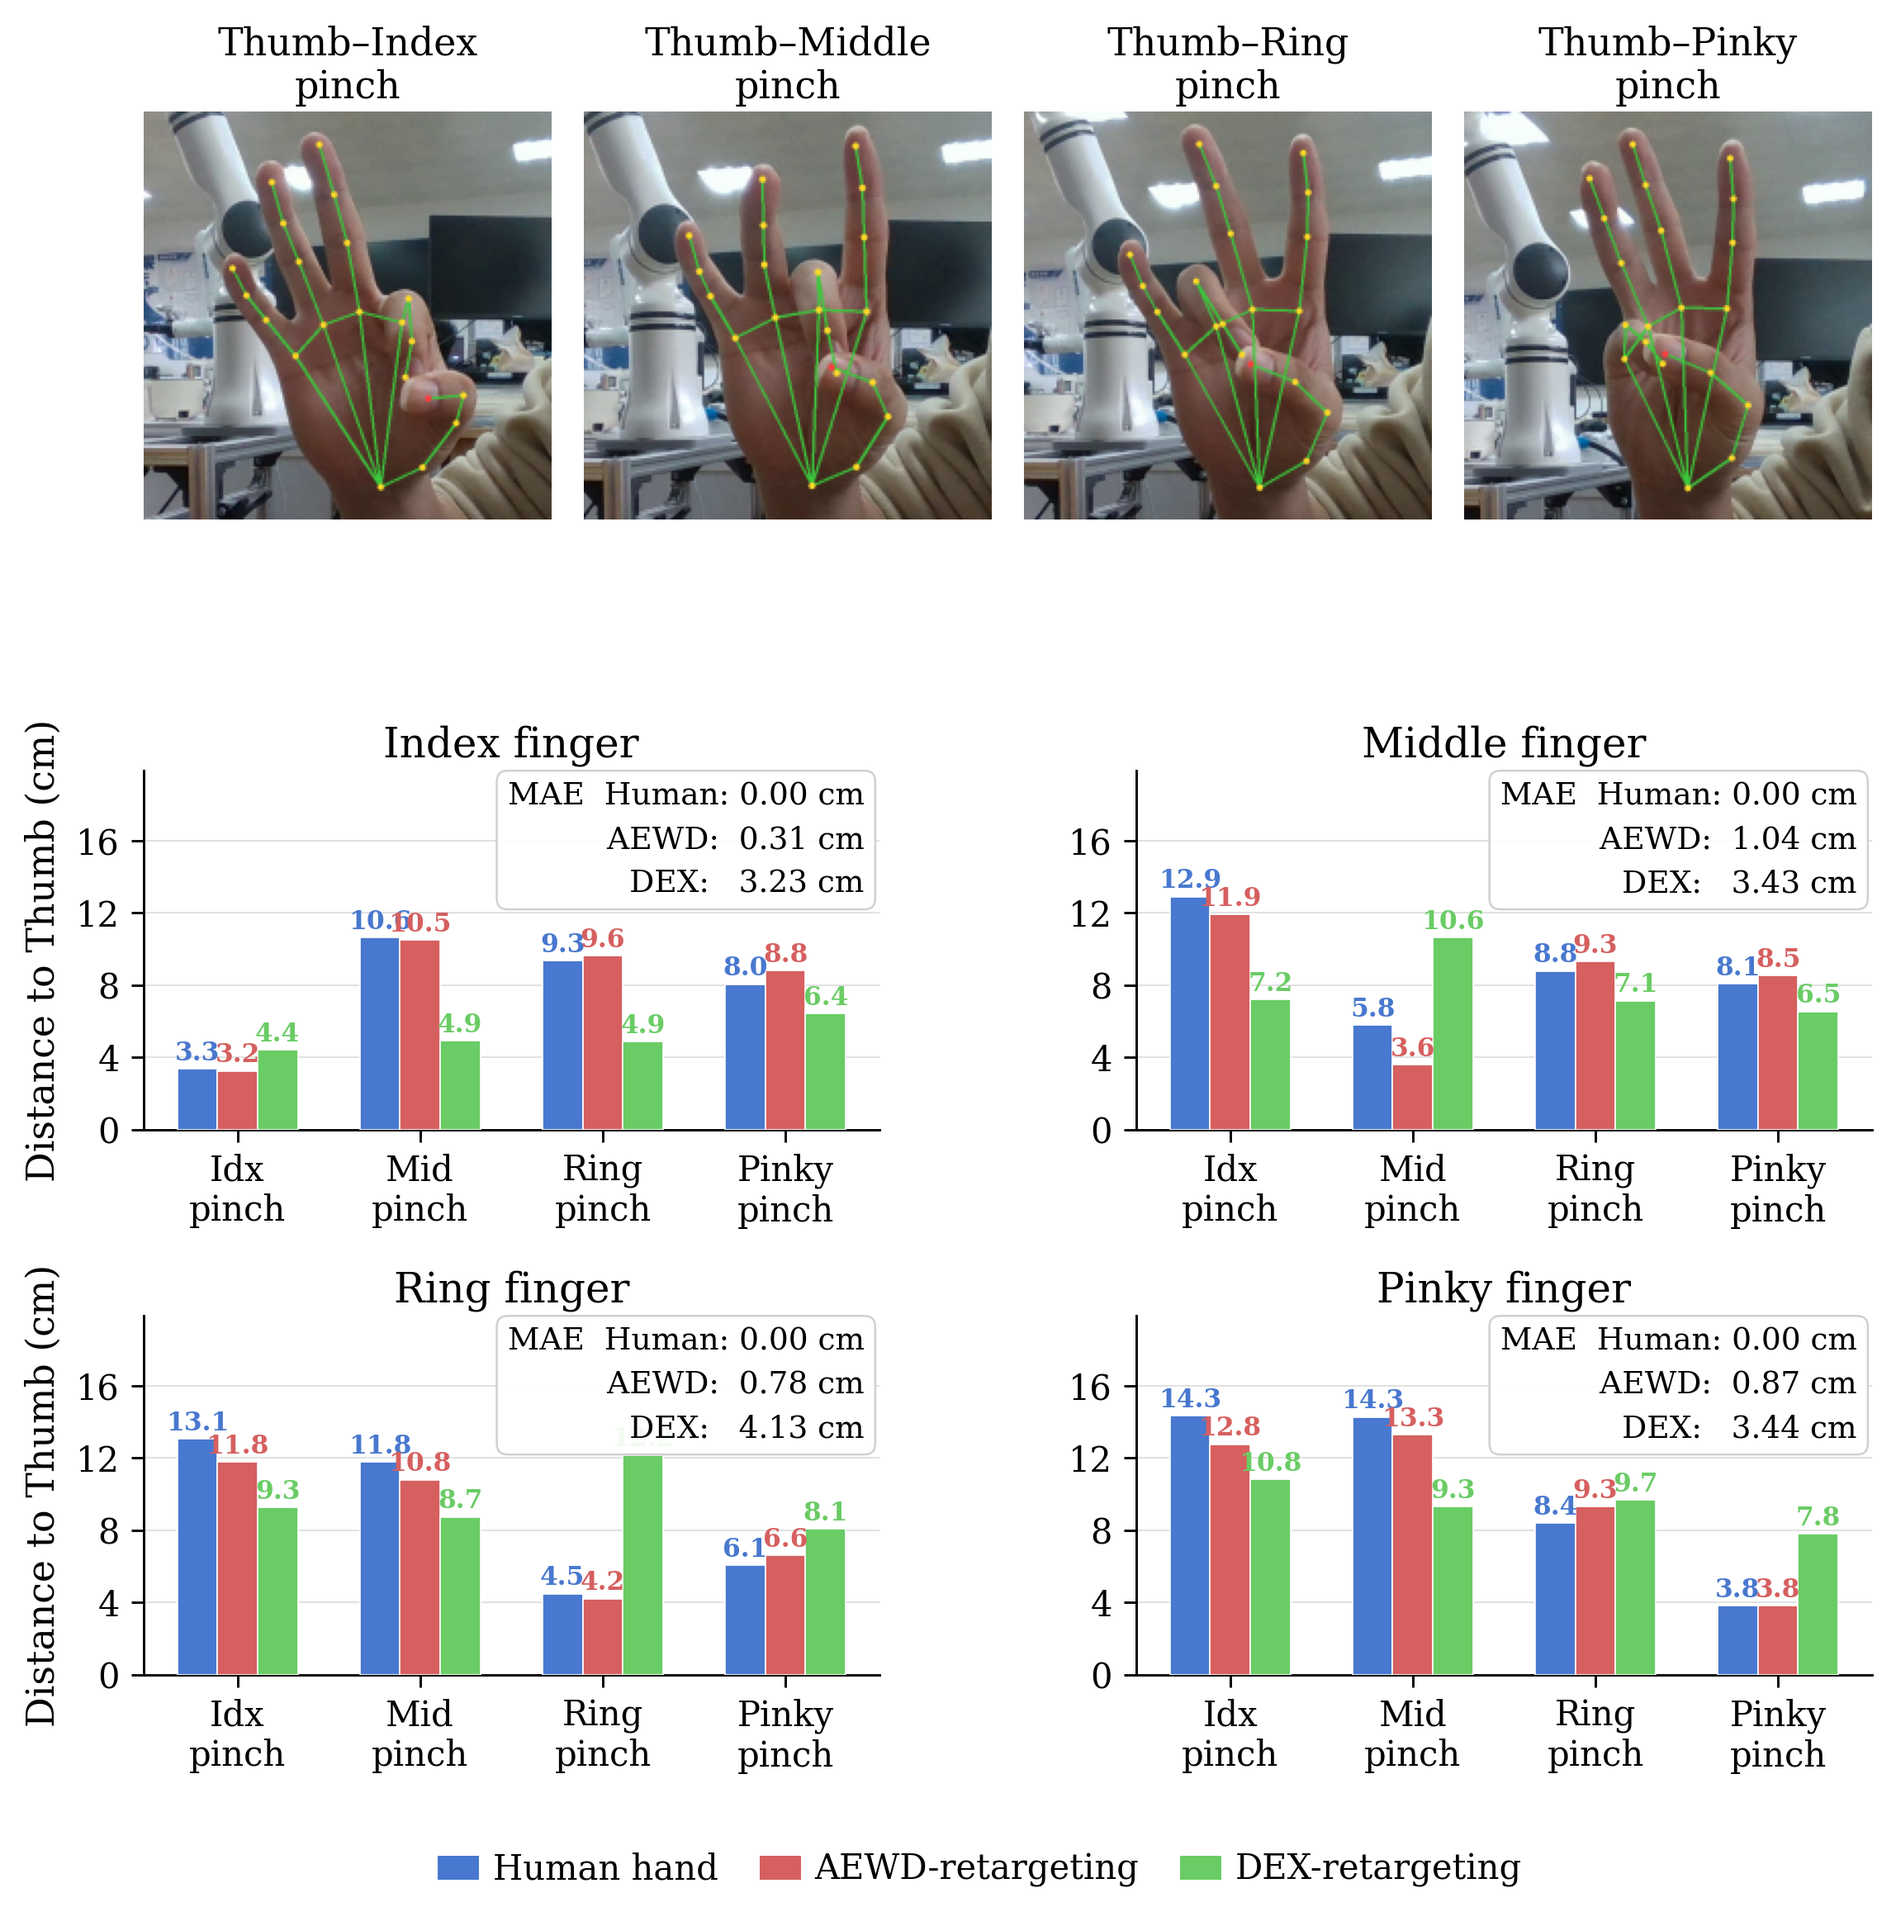
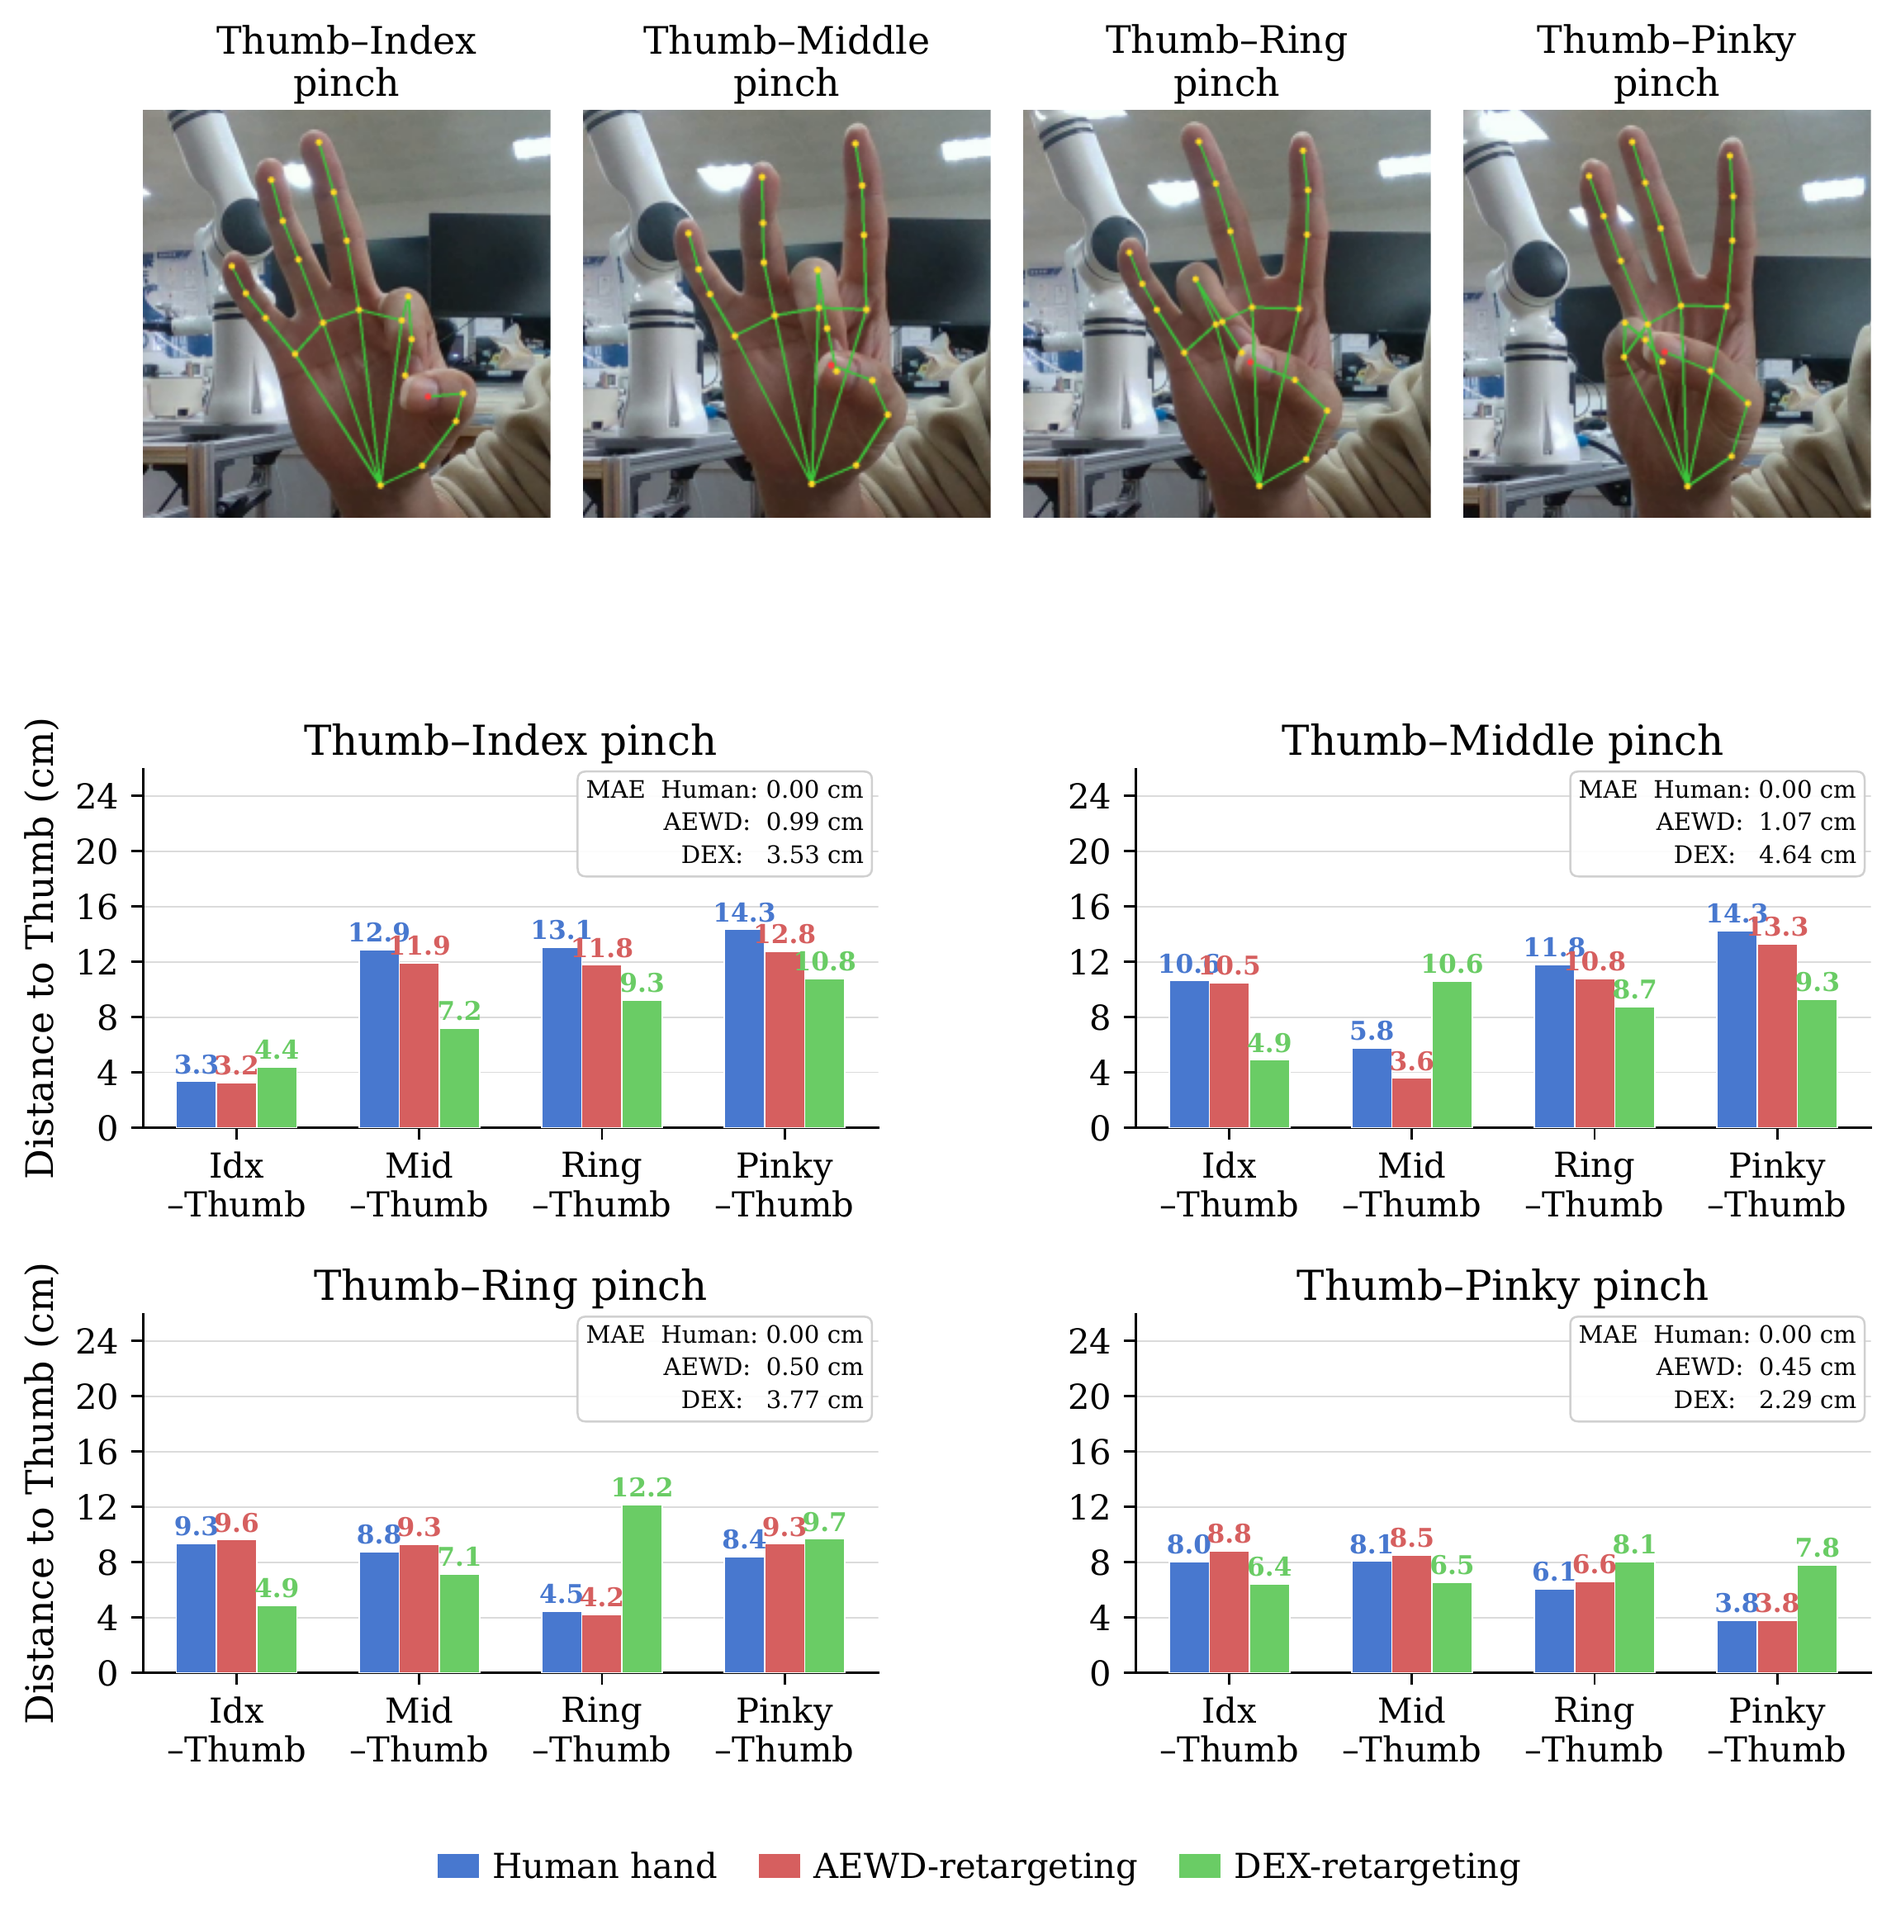
Update pinch fidelity figure and table with revised paper data
- Replace pinch_paper_main.png with version from pinch_paper_main.pdf
  (chart titles now per pinch type, x-axis labels updated, y-axis to 24 cm)
- Update MAE table: rename rows to Thumb-Index/Middle/Ring/Pinky,
  update AEWD values (0.99/1.07/0.50/0.45 cm) and DEX values (3.53/4.64/3.77/2.29 cm)
- Update figure caption to describe per-pinch-type layout

diff --git a/index.html b/index.html
@@ -339,17 +339,17 @@
     <p class="video-section-desc">To quantitatively evaluate retargeting fidelity, we analyze thumb-to-fingertip distances across four pinch configurations (Thumb&ndash;Index, Thumb&ndash;Middle, Thumb&ndash;Ring, Thumb&ndash;Pinky) on the Shadow Hand. Four representative frames (215, 304, 407, 582) are selected, and Euclidean distances between thumb tip and each fingertip are computed via forward kinematics and compared against MediaPipe human-hand landmarks. AEWD-Retargeting closely tracks the human reference across all fingers, achieving an overall MAE of <span class="hl">0.75 cm</span> and Pearson R&sup2;&nbsp;=&nbsp;0.938. In contrast, DEX-Retargeting yields an overall MAE of <span class="hl">3.56 cm</span> (4.7&times; higher) and R&sup2;&nbsp;=&nbsp;0.016, indicating it fails to preserve the relative structure of human pinch gestures.</p>
     <div style="margin-bottom:20px;">
       <a href="picture/pinch_paper_main.png" target="_blank"><img src="picture/pinch_paper_main.png" alt="Pinch fidelity comparison between AEWD-Retargeting, DEX-Retargeting, and human hand" style="width:100%;border-radius:8px;box-shadow:0 2px 8px rgba(0,0,0,0.08);cursor:zoom-in;"></a>
-      <p style="text-align:center;font-size:0.82rem;color:var(--text-light);margin-top:8px;">Pinch fidelity comparison. Top: four evaluation frames with MediaPipe landmarks. Bottom: thumb-to-fingertip distance (cm) per finger and pinch posture. Insets report per-method MAE relative to the human reference.</p>
+      <p style="text-align:center;font-size:0.82rem;color:var(--text-light);margin-top:8px;">Pinch fidelity comparison. Top: four evaluation frames with MediaPipe landmarks. Bottom: thumb-to-fingertip distance (cm) for each finger across four pinch types (Thumb&ndash;Index, Thumb&ndash;Middle, Thumb&ndash;Ring, Thumb&ndash;Pinky). Insets report per-method MAE relative to the human reference.</p>
     </div>
     <table class="result-table">
       <thead>
-        <tr><th>Finger</th><th>Human MAE (cm)</th><th>AEWD-Retargeting MAE (cm)</th><th>DEX-Retargeting MAE (cm)</th></tr>
+        <tr><th>Pinch Type</th><th>Human MAE (cm)</th><th>AEWD-Retargeting MAE (cm)</th><th>DEX-Retargeting MAE (cm)</th></tr>
       </thead>
       <tbody>
-        <tr><td>Index</td><td>0.00</td><td class="better">0.31</td><td>3.23</td></tr>
-        <tr><td>Middle</td><td>0.00</td><td class="better">1.04</td><td>3.43</td></tr>
-        <tr><td>Ring</td><td>0.00</td><td class="better">0.78</td><td>4.13</td></tr>
-        <tr><td>Pinky</td><td>0.00</td><td class="better">0.87</td><td>3.44</td></tr>
+        <tr><td>Thumb&ndash;Index</td><td>0.00</td><td class="better">0.99</td><td>3.53</td></tr>
+        <tr><td>Thumb&ndash;Middle</td><td>0.00</td><td class="better">1.07</td><td>4.64</td></tr>
+        <tr><td>Thumb&ndash;Ring</td><td>0.00</td><td class="better">0.50</td><td>3.77</td></tr>
+        <tr><td>Thumb&ndash;Pinky</td><td>0.00</td><td class="better">0.45</td><td>2.29</td></tr>
         <tr style="font-weight:700;"><td>Overall</td><td>0.00</td><td class="better">0.75</td><td>3.56</td></tr>
         <tr style="background:#f8f9fa;"><td colspan="2">Pearson R&sup2; (vs. Human)</td><td class="better">0.9378</td><td>0.0161</td></tr>
       </tbody>
